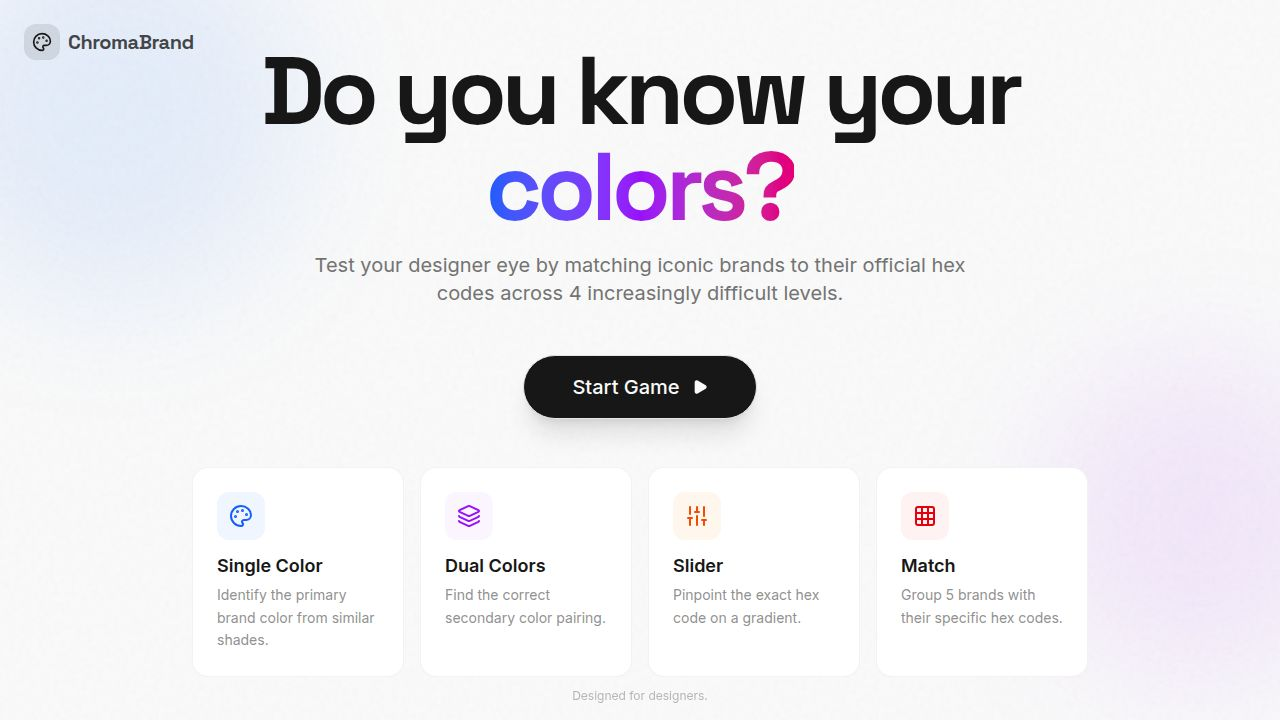
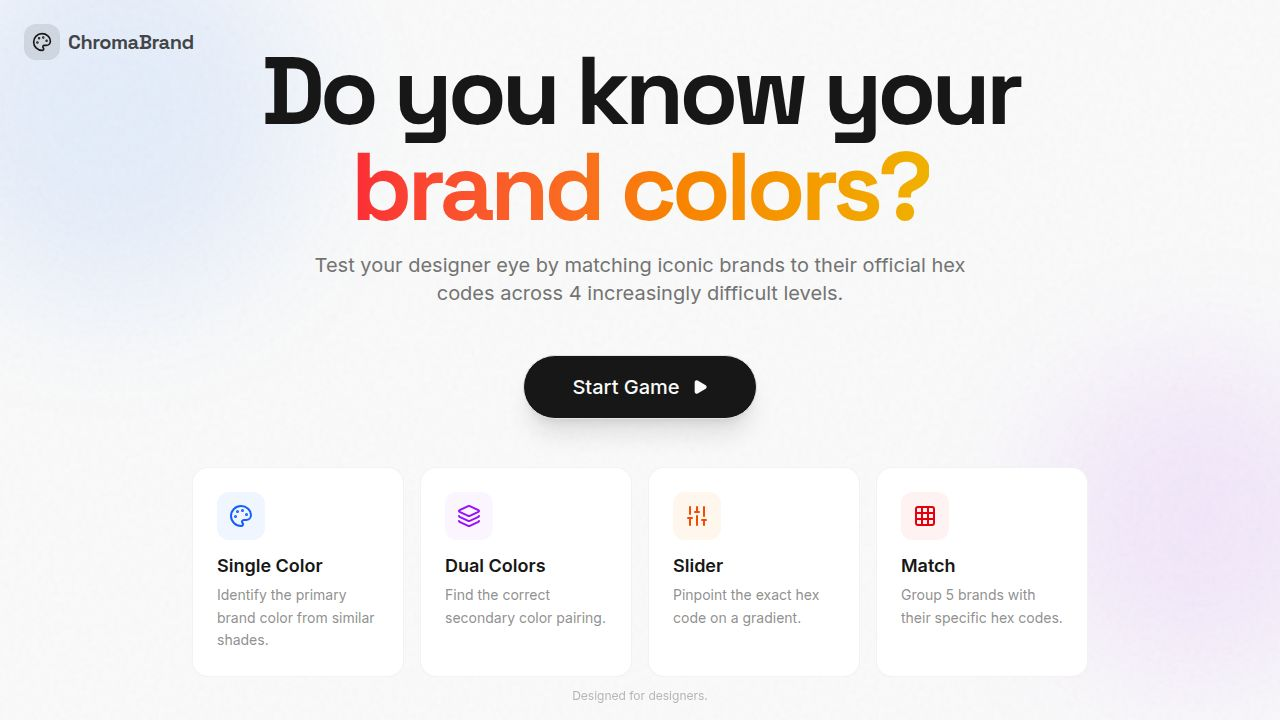
Update game interface with level progress and animated brand colors
Replace header with level progress station in `home.tsx`, update hero heading to "Do you know your brand colors?" with an animated rainbow gradient, and add `Check` icon import.

Replit-Commit-Author: Agent
Replit-Commit-Session-Id: 575fcd79-11b2-46e5-9851-d19eceaa8a13
Replit-Commit-Checkpoint-Type: full_checkpoint
Replit-Commit-Event-Id: 9280ac60-7a2f-415e-97d9-b80590522473
Replit-Commit-Screenshot-Url: https://storage.googleapis.com/screenshot-production-us-central1/97f1e4b2-06ea-4ff0-b27d-b8547674b3d4/575fcd79-11b2-46e5-9851-d19eceaa8a13/ISTPIiV
Replit-Helium-Checkpoint-Created: true

Changed region(s): [[0.2812, 0.1833, 0.75, 0.3056]]

diff --git a/client/src/pages/home.tsx b/client/src/pages/home.tsx
@@ -4,7 +4,7 @@ import { MatchingRound } from "@/components/game/MatchingRound";
 import { brands, Brand } from "@/data/brands";
 import { Button } from "@/components/ui/button";
 import { motion, AnimatePresence } from "framer-motion";
-import { ArrowRight, Trophy, Palette, Play, Info, Layers, Sliders, Grid3X3 } from "lucide-react";
+import { ArrowRight, Trophy, Palette, Play, Info, Layers, Sliders, Grid3X3, Check } from "lucide-react";
 
 export default function Home() {
   const [gameState, setGameState] = useState<"start" | "level-intro" | "playing" | "end">("start");
@@ -173,11 +173,30 @@ export default function Home() {
           </div>
           <span>ChromaBrand</span>
         </div>
+        
+        {/* Progress Station */}
+        {gameState === "playing" && (
+            <div className="absolute left-1/2 -translate-x-1/2 hidden md:flex items-center gap-2 bg-background/50 backdrop-blur-md p-1.5 rounded-full border border-border/50 shadow-sm">
+                {[1, 2, 3, 4].map((level) => (
+                    <div 
+                        key={level}
+                        className={`flex items-center gap-2 px-3 py-1.5 rounded-full text-xs font-medium transition-all ${
+                            currentLevel === level 
+                                ? 'bg-primary text-primary-foreground shadow-sm' 
+                                : currentLevel > level 
+                                    ? 'bg-secondary text-muted-foreground opacity-50' 
+                                    : 'text-muted-foreground opacity-30'
+                        }`}
+                    >
+                        <span>Level {level}</span>
+                        {currentLevel > level && <Check className="w-3 h-3" />}
+                    </div>
+                ))}
+            </div>
+        )}
+
         {gameState === "playing" && (
             <div className="flex items-center gap-4 bg-background/50 backdrop-blur-md p-2 pr-4 rounded-full border border-border/50 shadow-sm">
-                <div className="font-medium text-xs text-muted-foreground px-3 py-1 bg-secondary rounded-full">
-                    Lvl {currentLevel} • {currentMode === 'match' ? 'Final' : `${currentRound + 1}/5`}
-                </div>
                 <div className="font-bold text-sm text-primary">
                     {score} pts
                 </div>
@@ -198,7 +217,7 @@ export default function Home() {
             <div className="space-y-4">
               <h1 className="text-6xl md:text-8xl font-display font-bold tracking-tighter text-foreground">
                 Do you know your <br/>
-                <span className="text-transparent bg-clip-text bg-gradient-to-r from-blue-600 via-purple-600 to-pink-600">colors?</span>
+                <span className="text-transparent bg-clip-text bg-gradient-to-r from-red-500 via-yellow-500 via-green-500 via-blue-500 to-purple-500 animate-gradient-x bg-[length:200%_200%]">brand colors?</span>
               </h1>
               <p className="text-xl text-muted-foreground max-w-2xl mx-auto">
                 Test your designer eye by matching iconic brands to their official hex codes across 4 increasingly difficult levels.
